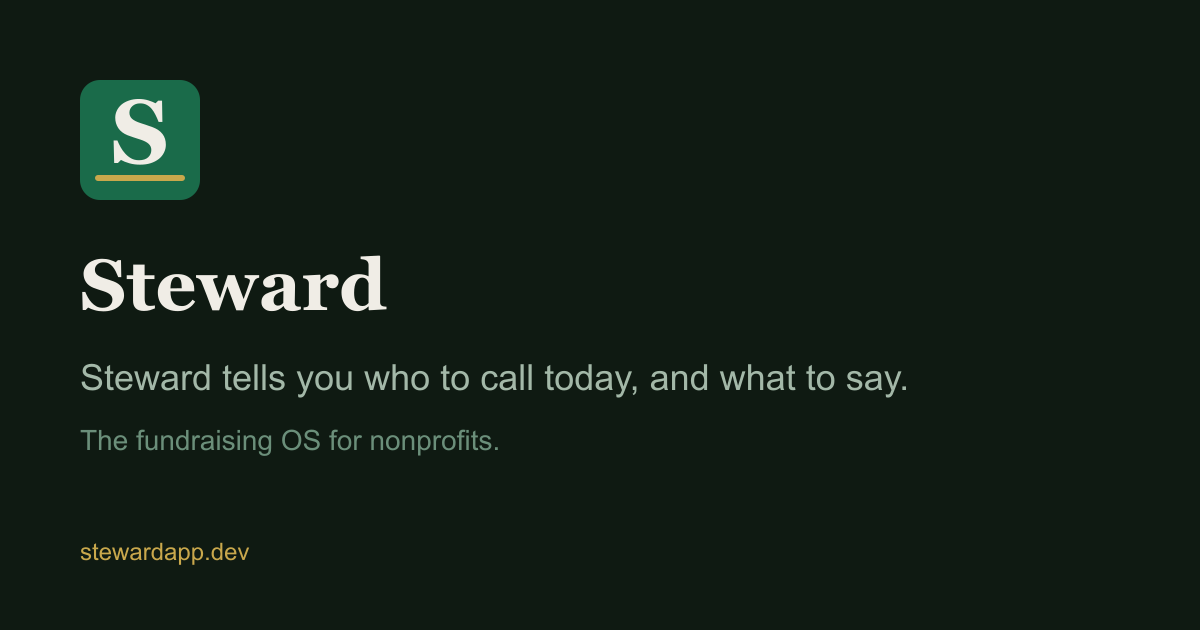
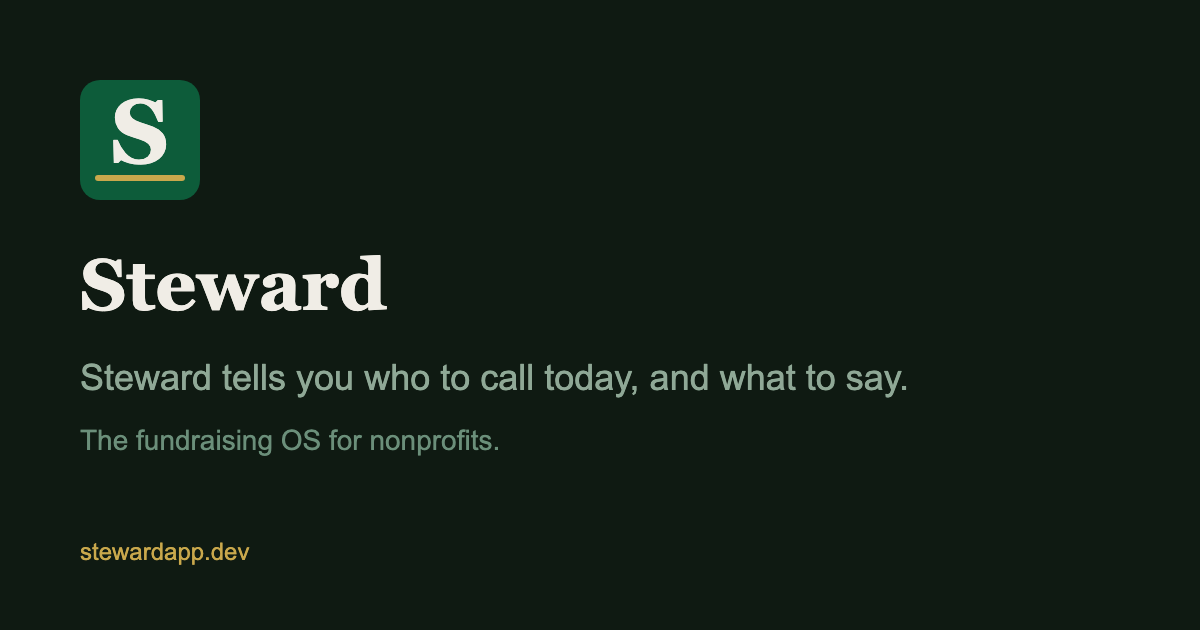
BUILD-46 Item 4: Phase 2 brand sweep of loading/auth/error/OG surfaces
Cause of the 'old green + old S mark' loading screen: NOT index.html (clean) but
the App shell's 'Loading your workspace…' splash, whose S-badge + spinner used
T.green (#10b981, the retired AI-green). Fixed to the favicon exactly: Ink badge
+ Cream serif S + Emerald (#0d5c3a) spinner.

Enumerated color literals on every briefed surface and diffed against the Phase 2
set (Ink/Cream/Cream-alt/Brass/Emerald/Sage/Warm-grey + neutral ramp) — did not
hunt old green by value. Full report: audit/BUILD-46-brand-sweep.md.
- OG image (og-image.svg/.png + linkedin-cover): S-badge #1a6b4a->Emerald,
  subhead #a3b8a8->Sage #8fa896; PNGs regenerated via headless Chrome, resampled.
- index.html pre-hydration body bg #030712 (blue-black) -> Ink #0f1a12.
- Auth bucket old-green #1a6b4a -> Emerald #0d5c3a (Login/Invite/Forgot/Reset/
  Signup — the 2026-07-30 auth sweep missed it).
- ErrorBoundary Reload button T.greenMid -> T.greenDk.
Confirmed-clean: favicon.svg/.ico/pngs, apple-touch, android-chrome, manifest,
Suspense/root-error fallbacks, 404 (redirect), logout (no screen), Invitation
(#e0a893 = legit semantic error on dark). Flagged not-tonight: publicTheme.greenDk
(Donate/Manage), Landing greenMd, public neutral greys.

Guards: eslint src clean, brand-glyph 66 / brand-allowlist 27 / palette 26 /
no-emoji green. Screenshots docs/build46-brand-2026-08-08/. Bundle-hash
follow-up: audit/BUILD-46-bundle-hash-followup.md.

diff --git a/client/src/App.jsx b/client/src/App.jsx
@@ -198,10 +198,13 @@ function AppShell() {
   if(loading) return <div style={{...BASE,display:"flex",flexDirection:"column",alignItems:"center",justifyContent:"center",gap:16}}>
     <GlobalStyles/>
     <link href="https://fonts.googleapis.com/css2?family=DM+Sans:wght@400;500;600;700;800&family=DM+Serif+Display&display=swap" rel="stylesheet"/>
-    <div style={{width:40,height:40,background:T.green,borderRadius:14,display:"flex",alignItems:"center",justifyContent:"center"}}>
-      <span style={{fontFamily:"'DM Serif Display',Georgia,serif",fontSize:24,fontWeight:400,color:"#fff",lineHeight:1}}>S</span>
+    {/* Splash mark = the favicon exactly: Ink badge + Cream serif S (was the
+        retired off-brand green #10b981 badge with a white S). Spinner accent =
+        Emerald (Phase 2 brand green), not the old green. */}
+    <div style={{width:40,height:40,background:T.ink,borderRadius:14,display:"flex",alignItems:"center",justifyContent:"center"}}>
+      <span style={{fontFamily:"'DM Serif Display',Georgia,serif",fontSize:24,fontWeight:400,color:T.inkInverse,lineHeight:1}}>S</span>
     </div>
-    <div style={{display:"flex",alignItems:"center",gap:10,color:T.ink3,fontSize:13}}><span style={{display:"inline-block",width:14,height:14,border:"2px solid "+T.bg3,borderTopColor:T.green,borderRadius:"50%",animation:"sp 0.7s linear infinite"}}/>Loading your workspace…</div>
+    <div style={{display:"flex",alignItems:"center",gap:10,color:T.ink3,fontSize:13}}><span style={{display:"inline-block",width:14,height:14,border:"2px solid "+T.bg3,borderTopColor:T.greenDk,borderRadius:"50%",animation:"sp 0.7s linear infinite"}}/>Loading your workspace…</div>
   </div>;
 
   if(loadErr||!data) return <div style={{...BASE,display:"flex",flexDirection:"column",alignItems:"center",justifyContent:"center",gap:12}}>

diff --git a/client/src/pages/ForgotPasswordPage.jsx b/client/src/pages/ForgotPasswordPage.jsx
@@ -77,7 +77,7 @@ export default function ForgotPasswordPage() {
                 We sent a reset link to <strong style={{ color: "#0f1a12" }}>{email}</strong>.<br/>
                 It expires in 1 hour.
               </div>
-              <Link to="/login" style={{ fontSize: 13, color: "#1a6b4a", textDecoration: "none", fontWeight: 600 }}>
+              <Link to="/login" style={{ fontSize: 13, color: "#0d5c3a", textDecoration: "none", fontWeight: 600 }}>
                 ← Back to login
               </Link>
             </div>
@@ -112,7 +112,7 @@ export default function ForgotPasswordPage() {
                 <button
                   type="submit"
                   disabled={loading}
-                  style={{ background: loading ? "#6b7c72" : "#1a6b4a", border: "none", borderRadius: 12, padding: "13px 24px", color: "#fff", fontSize: 15, fontWeight: 700, cursor: loading ? "not-allowed" : "pointer", marginTop: 4 }}
+                  style={{ background: loading ? "#6b7c72" : "#0d5c3a", border: "none", borderRadius: 12, padding: "13px 24px", color: "#fff", fontSize: 15, fontWeight: 700, cursor: loading ? "not-allowed" : "pointer", marginTop: 4 }}
                 >
                   {loading ? "Sending…" : "Send reset link →"}
                 </button>

diff --git a/client/src/components/shared.jsx b/client/src/components/shared.jsx
@@ -125,7 +125,7 @@ function ErrorFallback({ label, onReload, onHome, onRetry }) {
         </div>
         <div style={{ display: "flex", gap: 10, justifyContent: "center", flexWrap: "wrap" }}>
           {onRetry && <button onClick={onRetry} style={{ background: "transparent", border: "1px solid " + T.bg3, borderRadius: 10, padding: "9px 16px", color: T.ink, fontSize: 13, fontWeight: 700, cursor: "pointer" }}>Try again</button>}
-          <button onClick={onReload} style={{ background: T.greenMid, border: "none", borderRadius: 10, padding: "9px 18px", color: "#fff", fontSize: 13, fontWeight: 700, cursor: "pointer" }}>Reload</button>
+          <button onClick={onReload} style={{ background: T.greenDk, border: "none", borderRadius: 10, padding: "9px 18px", color: "#fff", fontSize: 13, fontWeight: 700, cursor: "pointer" }}>Reload</button>
           {onHome && <button onClick={onHome} style={{ background: T.gold, border: "none", borderRadius: 10, padding: "9px 18px", color: T.ink, fontSize: 13, fontWeight: 700, cursor: "pointer" }}>Go Home</button>}
         </div>
       </div>

diff --git a/client/src/pages/ResetPasswordPage.jsx b/client/src/pages/ResetPasswordPage.jsx
@@ -130,7 +130,7 @@ export default function ResetPasswordPage() {
                 <button
                   type="submit"
                   disabled={loading || !token}
-                  style={{ background: loading || !token ? "#6b7c72" : "#1a6b4a", border: "none", borderRadius: 12, padding: "13px 24px", color: "#fff", fontSize: 15, fontWeight: 700, cursor: loading || !token ? "not-allowed" : "pointer", marginTop: 4 }}
+                  style={{ background: loading || !token ? "#6b7c72" : "#0d5c3a", border: "none", borderRadius: 12, padding: "13px 24px", color: "#fff", fontSize: 15, fontWeight: 700, cursor: loading || !token ? "not-allowed" : "pointer", marginTop: 4 }}
                 >
                   {loading ? "Updating…" : "Set new password →"}
                 </button>

diff --git a/client/src/pages/SignupPage.jsx b/client/src/pages/SignupPage.jsx
@@ -152,7 +152,7 @@ export default function SignupPage() {
               </div>
             )}
 
-            <button type="submit" disabled={loading} style={{ background: loading ? "#6b7c72" : "#1a6b4a", border: "none", borderRadius: 12, padding: "14px 24px", color: "#fff", fontSize: 15, fontWeight: 700, cursor: loading ? "not-allowed" : "pointer", marginTop: 4 }}>
+            <button type="submit" disabled={loading} style={{ background: loading ? "#6b7c72" : "#0d5c3a", border: "none", borderRadius: 12, padding: "14px 24px", color: "#fff", fontSize: 15, fontWeight: 700, cursor: loading ? "not-allowed" : "pointer", marginTop: 4 }}>
               {loading ? "Creating account…" : "Create your account →"}
             </button>
           </form>

diff --git a/client/src/pages/InvitePage.jsx b/client/src/pages/InvitePage.jsx
@@ -18,7 +18,7 @@ const T = {
   ink3:   "#6b6b6b",
   gold:   "#c9a84c",   // gold500 — primary action + title underline (ink text on it)
   forest: "#0d5c3a",   // greenDk — standard link/accent, WCAG AA on cream
-  greenDark: "#1a6b4a",
+  greenDark: "#0d5c3a",
   red:    "#8a3a24",   // deep terracotta — errors ride terracotta, never library red
 };
 

diff --git a/client/src/pages/LoginPage.jsx b/client/src/pages/LoginPage.jsx
@@ -25,7 +25,7 @@ const T = {
   ink3:   "#6b6b6b",
   gold:   "#c9a84c",   // gold500 — primary action + title underline (ink text on it)
   forest: "#0d5c3a",   // greenDk — standard link/accent, WCAG AA on cream
-  greenDark: "#1a6b4a",
+  greenDark: "#0d5c3a",
   red:    "#8a3a24",  // deep terracotta — errors ride terracotta, never library red
 };
 

diff --git a/client/index.html b/client/index.html
@@ -35,7 +35,7 @@
     <meta name="twitter:image" content="https://stewardapp.dev/og-image.png" />
     <style>* { box-sizing: border-box; margin: 0; padding: 0; }</style>
   </head>
-  <body style="background:#030712">
+  <body style="background:#0f1a12">
     <div id="root"></div>
     <script type="module" src="/src/main.jsx"></script>
   </body>

diff --git a/CLAUDE.md b/CLAUDE.md
@@ -1002,6 +1002,14 @@ Compliant, branded tax receipts for gifts, plus consolidated calendar-year givin
 - Custom domain: stewardapp.dev → DNS via Vercel nameservers
 - Resend domain verified: stewardapp.dev, sends from noreply@stewardapp.dev
 
+## BUILD-46 (Aug 8) — two demo bugs + Phase 2 brand sweep (2026-08-08, pre-Fairhope)
+Two demo-visible bug fixes, a verify-only gate, and the Phase 2 loading/brand sweep. Shipped in stages (Stage A = the two bugs + gate, pushed green 67/67; Stage B = brand).
+- **Bug 1 — follow-up task badge flagged FUTURE due dates as overdue.** Root cause (diagnosed, not assumed): the donor-profile follow-up badge (`Donors.jsx`) computed overdue as `daysDiff(due) < 0`, where `daysDiff = floor((now − due)/day)` — *elapsed-since* semantics, so a future due date is negative → flagged overdue (a task 6 days out read "Overdue — was Aug 14"); the raw ms diff also crossed UTC midnight. `daysUntil`-based math elsewhere ("412 days left") was always correct. Fix: new JSX-free **`client/src/lib/taskDue.js`** — overdue ONLY when the due date is strictly before today, compared as CALENDAR dates in the local (org) timezone. Future → warm-grey `T.ink3` "Due Aug 14"; today → brass `T.gold500` "Due today"; past → terracotta "Overdue · was due Aug 14". Pinned by **`tests/task-due.test.js`** (18): a task created now with a future due date can never render overdue; boundaries at exactly today and yesterday.
+- **Bug 2 — solicitations win rate used the wrong denominator.** `reportSolicitations` computed won/(won+**open**); a win rate counts DECIDED asks only = **won/(won+lost)** (open asks aren't losses). Added a symmetric `lostByOfficer` window query (marking lost stamps `closed_at=NOW()`, like won); `byOfficer` now carries `lostAsks`/`lostAskAmount`/`decidedAsks`; `winRate` is null when nothing is decided (client shows "—"/"No decided asks yet", never 0%). Open count was already surfaced separately and stays labeled "Open". `Reports.jsx`: "Close rate"→"Win rate", added a Lost column + definition caption. Pinned by **`tests/solicitations-winrate.test.js`** (2 won/1 lost/4 open → 66.7%, 0-decided → null); `report-truth` win-rate assertion corrected (1 won/0 lost/2 open → 100%). **Enumeration deliverable `audit/BUILD-46-rate-denominators.md`** — every other computed rate/percentage checked; win rate was the sole denominator bug; the analogous recovery rate already uses recovered/(recovered+lost).
+- **Item 3 (verify-only, GATE) — campaign Edit loads the correct record.** Verified NO wrong-record load: each card's Edit closes over its own campaign object, the modal remounts per open and inits from it, and `save()` PUTs to that same `campaign.id` (no shared/indexed/stale ref). Reproduced the exact 5-campaign screenshot structure on a live local server+DB and diffed all 6 Edit-form fields per campaign against stored values — all match (Spring Studio shows 15000/project, NOT the umbrella's 180000/annual). The screenshot was the FY2026 umbrella's modal (fixed overlay) layered over the Spring Studio card. `audit/BUILD-46-campaign-edit-verification.md`.
+- **Item 4 — Phase 2 brand sweep** (full per-surface enumeration in `audit/BUILD-46-brand-sweep.md`). Cause of the "old green + S mark" loading screen: NOT index.html (clean) but the App shell's "Loading your workspace…" splash (`App.jsx`), whose S-badge + spinner used `T.green` `#10b981` (retired AI-green) → **Ink `#0f1a12` badge + Cream serif S (favicon-identical) + Emerald `#0d5c3a` spinner**. Also fixed: **OG image** (`og-image.svg`/`.png` + linkedin-cover — S-badge `#1a6b4a`→Emerald, subhead `#a3b8a8`→Sage `#8fa896`, PNG regenerated via headless Chrome), **index.html** pre-hydration body bg `#030712`→Ink, **auth bucket** old-green `#1a6b4a`→Emerald `#0d5c3a` (Login/Invite/Forgot/Reset/Signup), **ErrorBoundary** Reload button `T.greenMid`→`T.greenDk`. Confirmed-clean: favicon.svg/.ico/pngs, apple-touch, android-chrome, site.webmanifest, Suspense `RouteFallback`, `RootErrorFallback`, 404 (redirect, none), logout (no screen), Invitation.jsx (`#e0a893` = legit semantic error on dark). Flagged not-tonight: `publicTheme.greenDk #1a6b4a` (feeds Donate/ManageFundraiser), Landing `greenMd`, public-theme neutral ink greys. Guards: eslint src clean, brand-glyph 66 / brand-allowlist 27 / palette 26 / no-emoji green. Screenshots `docs/build46-brand-2026-08-08/`.
+- **Audit follow-up (not tonight):** `audit/BUILD-46-bundle-hash-followup.md` — prod bundle hash changed on a backend-only push with unchanged client source; the deploy-verification signal needs a reproducible-build check.
+
 ## BUILD-45 (Aug 8) — two live-review dashboard defects + demo cleanup (2026-08-08, pre-Fairhope)
 Distinct from the 2026-08-07 BUILD-45 below (same number reused for a different brief). Two demo-visible UI defects Jonathan found on prod, plus demo-data lint. Findings/diagnosis: `audit/BUILD-45-FINDINGS.md`; the one blocked item: `BLOCKED-build-45.md`.
 - **D-1 — "Needs your attention" rows are now real donor LINKS.** Each row's left region (avatar + name + task text) is a genuine `<a href="/donors/:id">` (`Dashboard.jsx`), with the action button a SIBLING of the anchor (never nested → keyboard/new-tab safe; the button also `stopPropagation`s). Hover affordance (`shared.jsx` GlobalStyles `a.attn-row-main:hover` → cream-alt `#e8e4db` wash + donor-name underline; brass `#c9a84c` focus-visible ring; ≥44px tap targets on both main + action). Orphaned rows (no resolvable donor) render the main as a `<span>`, never a dead link (+ a dev-only console orphan count). **The whole left region goes to the donor profile regardless of the action button's own behavior** (one unambiguous target). — **`/donors/:id` was NOT a route** (the SPA opened profiles via in-app `selectDonorId` state; the catch-all redirected unknown paths to `/`). Since the brief's committed test asserts `href === /donors/:id` AND cmd-click must work, a real URL was required: added `<Route path="/donors/:donorId">` in `main.jsx` → `RequireOnboarded><App/>`, and `App.jsx` reads the `:donorId` on mount, opens that profile, and `replaceState`s to `/dashboard` (same pattern as `?stripe_connected`/`?subscribed`). Verified: a fresh load / cmd-click on `/donors/smpl_d1` opens the profile, not the landing page.

diff --git a/audit/BUILD-46-brand-sweep.md b/audit/BUILD-46-brand-sweep.md
@@ -1,0 +1,96 @@
+# Phase 2 / BUILD-46 — pre-hydration & brand-surface sweep (2026-08-08)
+
+**Cause of the reported symptom (confirmed first, not assumed):** the "loading
+screen with old green + old 'S' mark" is NOT the pre-hydration splash in
+index.html (index.html has no splash markup). It is the **App shell's own
+"Loading your workspace…" splash** (`client/src/App.jsx`), whose "S" badge
+background and spinner used `T.green` = **`#10b981`** — the retired off-brand
+"AI green". Fixed to match the favicon exactly (Ink badge + Cream serif S) with
+an Emerald spinner.
+
+## Method
+Per the brief, the old green was **not** hunted by value. Every color literal
+present on each listed surface was enumerated and diffed against the Phase 2 set
+— Ink `#0F1A12`, Cream `#F0EDE6`, Cream-alt `#E8E4DB`, Brass `#C9A84C`, Emerald
+`#0D5C3A`, Sage `#8FA896`, Warm-grey `#6B6560` — plus the accepted neutral ramp.
+Anything outside is listed below with file, purpose, and a legitimacy call.
+Raster assets (favicon/apple/android/og PNGs) were pixel-sampled with `sharp`.
+
+## Surfaces, in the briefed order
+
+### 1. OG / social preview image — **PRESENT-AND-FIXED**
+`client/public/og-image.svg` + `.png` (1200×630). Enumerated literals:
+`#0f1a12` Ink ✓ · `#f0ede6` Cream ✓ · `#c9a84c` Brass ✓ · **`#1a6b4a`** (old
+primary green — the S-badge) ✗ · **`#a3b8a8`** (subhead — off-set light sage) ✗
+· `#6b8f7a` (tertiary tagline — a documented sage-ramp token, accepted).
+Fixed: badge `#1a6b4a → #0d5c3a` (Emerald), subhead `#a3b8a8 → #8fa896` (Sage).
+PNG regenerated from the corrected SVG via headless Chrome (proper Georgia
+serif); re-sampled: Emerald 11,392 px vs 36 residual anti-alias, no old green.
+`linkedin-cover.svg`/`.png` had the identical defect — fixed the same way (not
+on the briefed list, but the same asset class and first-impression surface).
+
+### 2. favicon.ico / favicon.svg — **CONFIRMED-CLEAN**
+`favicon.svg`: `#0f1a12` Ink rect + `#f0ede6` Cream serif S. On-brand.
+`favicon.ico` / `favicon-16/32.png`: sampled → Ink + Cream serif S, no green.
+
+### 3. apple-touch-icon / PWA manifest icons — **CONFIRMED-CLEAN**
+`apple-touch-icon.png`, `android-chrome-192/512.png`: sampled `#081810`≈Ink +
+`#f0e8e0`≈Cream serif S, no green. `site.webmanifest`: `background_color` /
+`theme_color` = `#0f1a12` Ink ✓. index.html `theme-color` meta = `#0f1a12` ✓.
+
+### 4. login / logout / invitation-accept — **PRESENT-AND-FIXED (auth bucket)**
+- **`#1a6b4a`** (old primary green, self-labeled "greenDk/greenDark") was the
+  links/accents/submit-button green on `LoginPage`, `InvitePage`,
+  `ForgotPasswordPage`, `ResetPasswordPage`, and `SignupPage` (login's twin).
+  The 2026-07-30 auth sweep moved auth accents to forest `#0d5c3a` but missed
+  this. Fixed `#1a6b4a → #0d5c3a` (Emerald) across all five.
+- `Invitation.jsx` (the `/invitation` request form): all literals in-set except
+  **`#e0a893`** — the `role="alert"` error text on the ink section. **Legitimate
+  (semantic error on dark)**; a light terracotta tint for AA on ink. Could align
+  to the terra ramp `#eac6b8` for exactness — left as-is (a semantic error color,
+  which the brief exempts).
+- **logout**: no branded screen — logout clears localStorage and redirects to
+  `/login`. Nothing to brand. **CONFIRMED-CLEAN.**
+- Auth-page neutral text greys (`#0f0f0f`, `#1a1a1a`, `#2a2a2a`, `#6b6b6b`,
+  `#ddd9d0`, `faf6f3`/`f8f6f0` cream tints): the public-theme neutral ramp —
+  **accepted neutral ramp** (public pages use a neutral ink vs the app's green
+  ink; a documented, non-urgent consistency nit, not a defect).
+
+### 5. route-transition / Suspense fallbacks / skeletons — **FIXED + CONFIRMED-CLEAN**
+- **App splash** ("Loading your workspace…", App.jsx): `T.green` `#10b981` badge
+  + white S + `#10b981` spinner → **Ink `#0f1a12` badge + Cream `#f0ede6` serif
+  S (favicon-identical) + Emerald `#0d5c3a` spinner**. This is the reported
+  loading screen. **PRESENT-AND-FIXED.**
+- **Suspense `RouteFallback`** (main.jsx): cream `#f0ede6` + `#d4cfc6` track +
+  `#0d5c3a` Emerald spinner. **CONFIRMED-CLEAN.**
+- **Pre-hydration body bg** (index.html): `#030712` blue-black (off-palette, not
+  Ink) → **`#0f1a12` Ink**. Removes the pre-hydration blue flash. **FIXED.**
+- **Dashboard skeleton** (in-app placeholder): brand-allowlist-guarded — all
+  literals are on-palette values (suite green). Its residual `#1a6b4a` usages are
+  the documented in-app component backlog, not a loading-surface defect.
+
+### 6. 404 / error boundaries — **FIXED + CONFIRMED-CLEAN**
+- **404**: no dedicated 404 page — `<Route path="*">` redirects to `/`. Nothing
+  to brand. **CONFIRMED-CLEAN.**
+- **`RootErrorFallback`** (main.jsx): cream `#f0ede6` + `#b8593f` terracotta
+  heading (semantic error ✓). **CONFIRMED-CLEAN.**
+- **`ErrorFallback`** (shared.jsx, the in-app ErrorBoundary): "Something went
+  wrong" in `T.terracotta` (semantic ✓), "Go Home" in `T.gold` Brass (primary
+  ✓), but "Reload" used `T.greenMid` = **`#1a6b4a`** (old green) → **`T.greenDk`
+  `#0d5c3a`** Emerald. **PRESENT-AND-FIXED.**
+
+## Flagged, NOT changed tonight (documented, out of the briefed surfaces)
+- `client/src/pages/publicTheme.js` `greenDk: "#1a6b4a"` — feeds **Donate** +
+  **ManageFundraiser** (public donation surfaces, not on tonight's list). An
+  off-Phase-2 green token; recommend aligning to `#0d5c3a` in a public-pages pass.
+- `client/src/pages/Landing.jsx` `greenMd: "#1a6b4a"` — a secondary landing
+  accent (landing not on tonight's list; has its own guards).
+- `Donate.jsx` S-badge — a public greeting mark; verify its green in the same
+  public-pages pass.
+- Public-theme neutral ink greys (§4) — accepted neutral ramp; optional alignment.
+
+## Verification
+`eslint src` clean (Vercel build gate); brand-glyph 66/66, brand-allowlist
+27/27, palette 26/26, no-emoji green. Splash + OG rendered and eyeballed:
+`docs/build46-brand-2026-08-08/` (loading-splash.png = Ink+Cream S + Emerald
+spinner; the OG = Emerald badge, Sage tagline, no old green).

diff --git a/audit/BUILD-46-bundle-hash-followup.md b/audit/BUILD-46-bundle-hash-followup.md
@@ -1,0 +1,3 @@
+# Follow-up (NOT tonight) — prod bundle hash changed on a backend-only push
+
+The production client bundle hash changed on a backend-only push with unchanged client source — so either the build is non-reproducible or something in the client input did change; the bundle hash is our deploy-verification signal and must be trustworthy, so this needs to be run down (reproducible-build check + hash provenance) before we rely on it to confirm a deploy.
